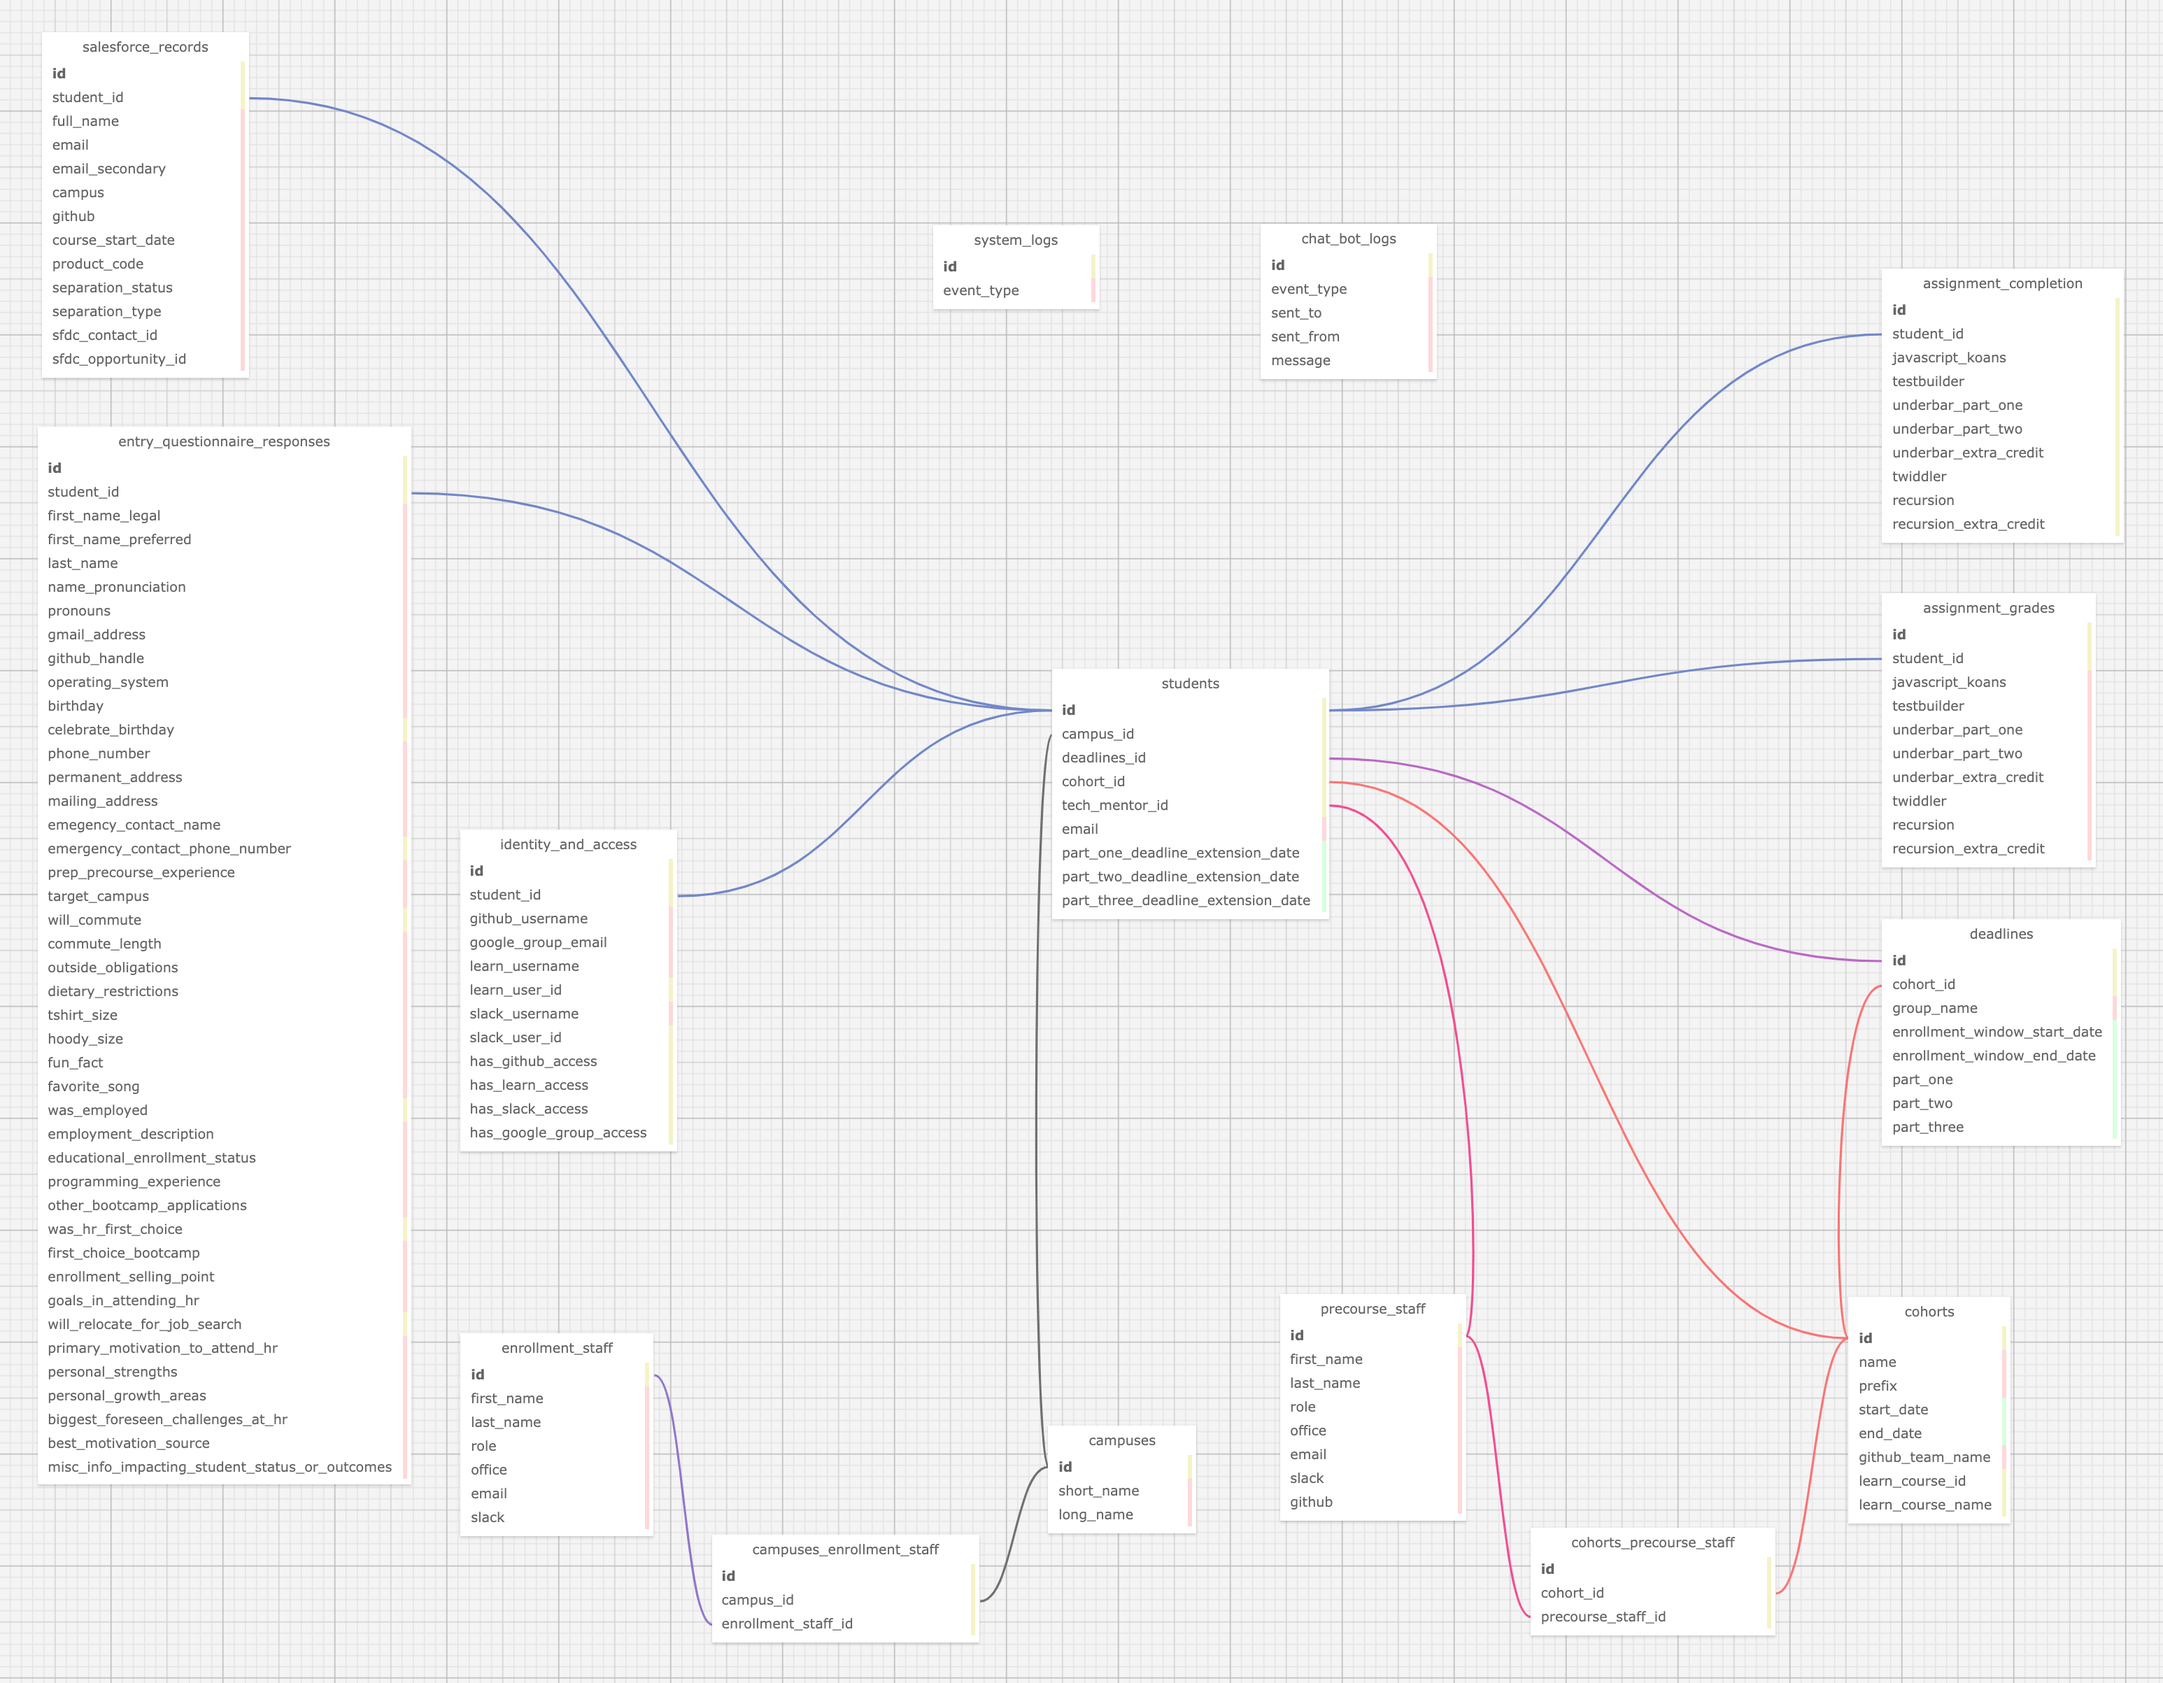
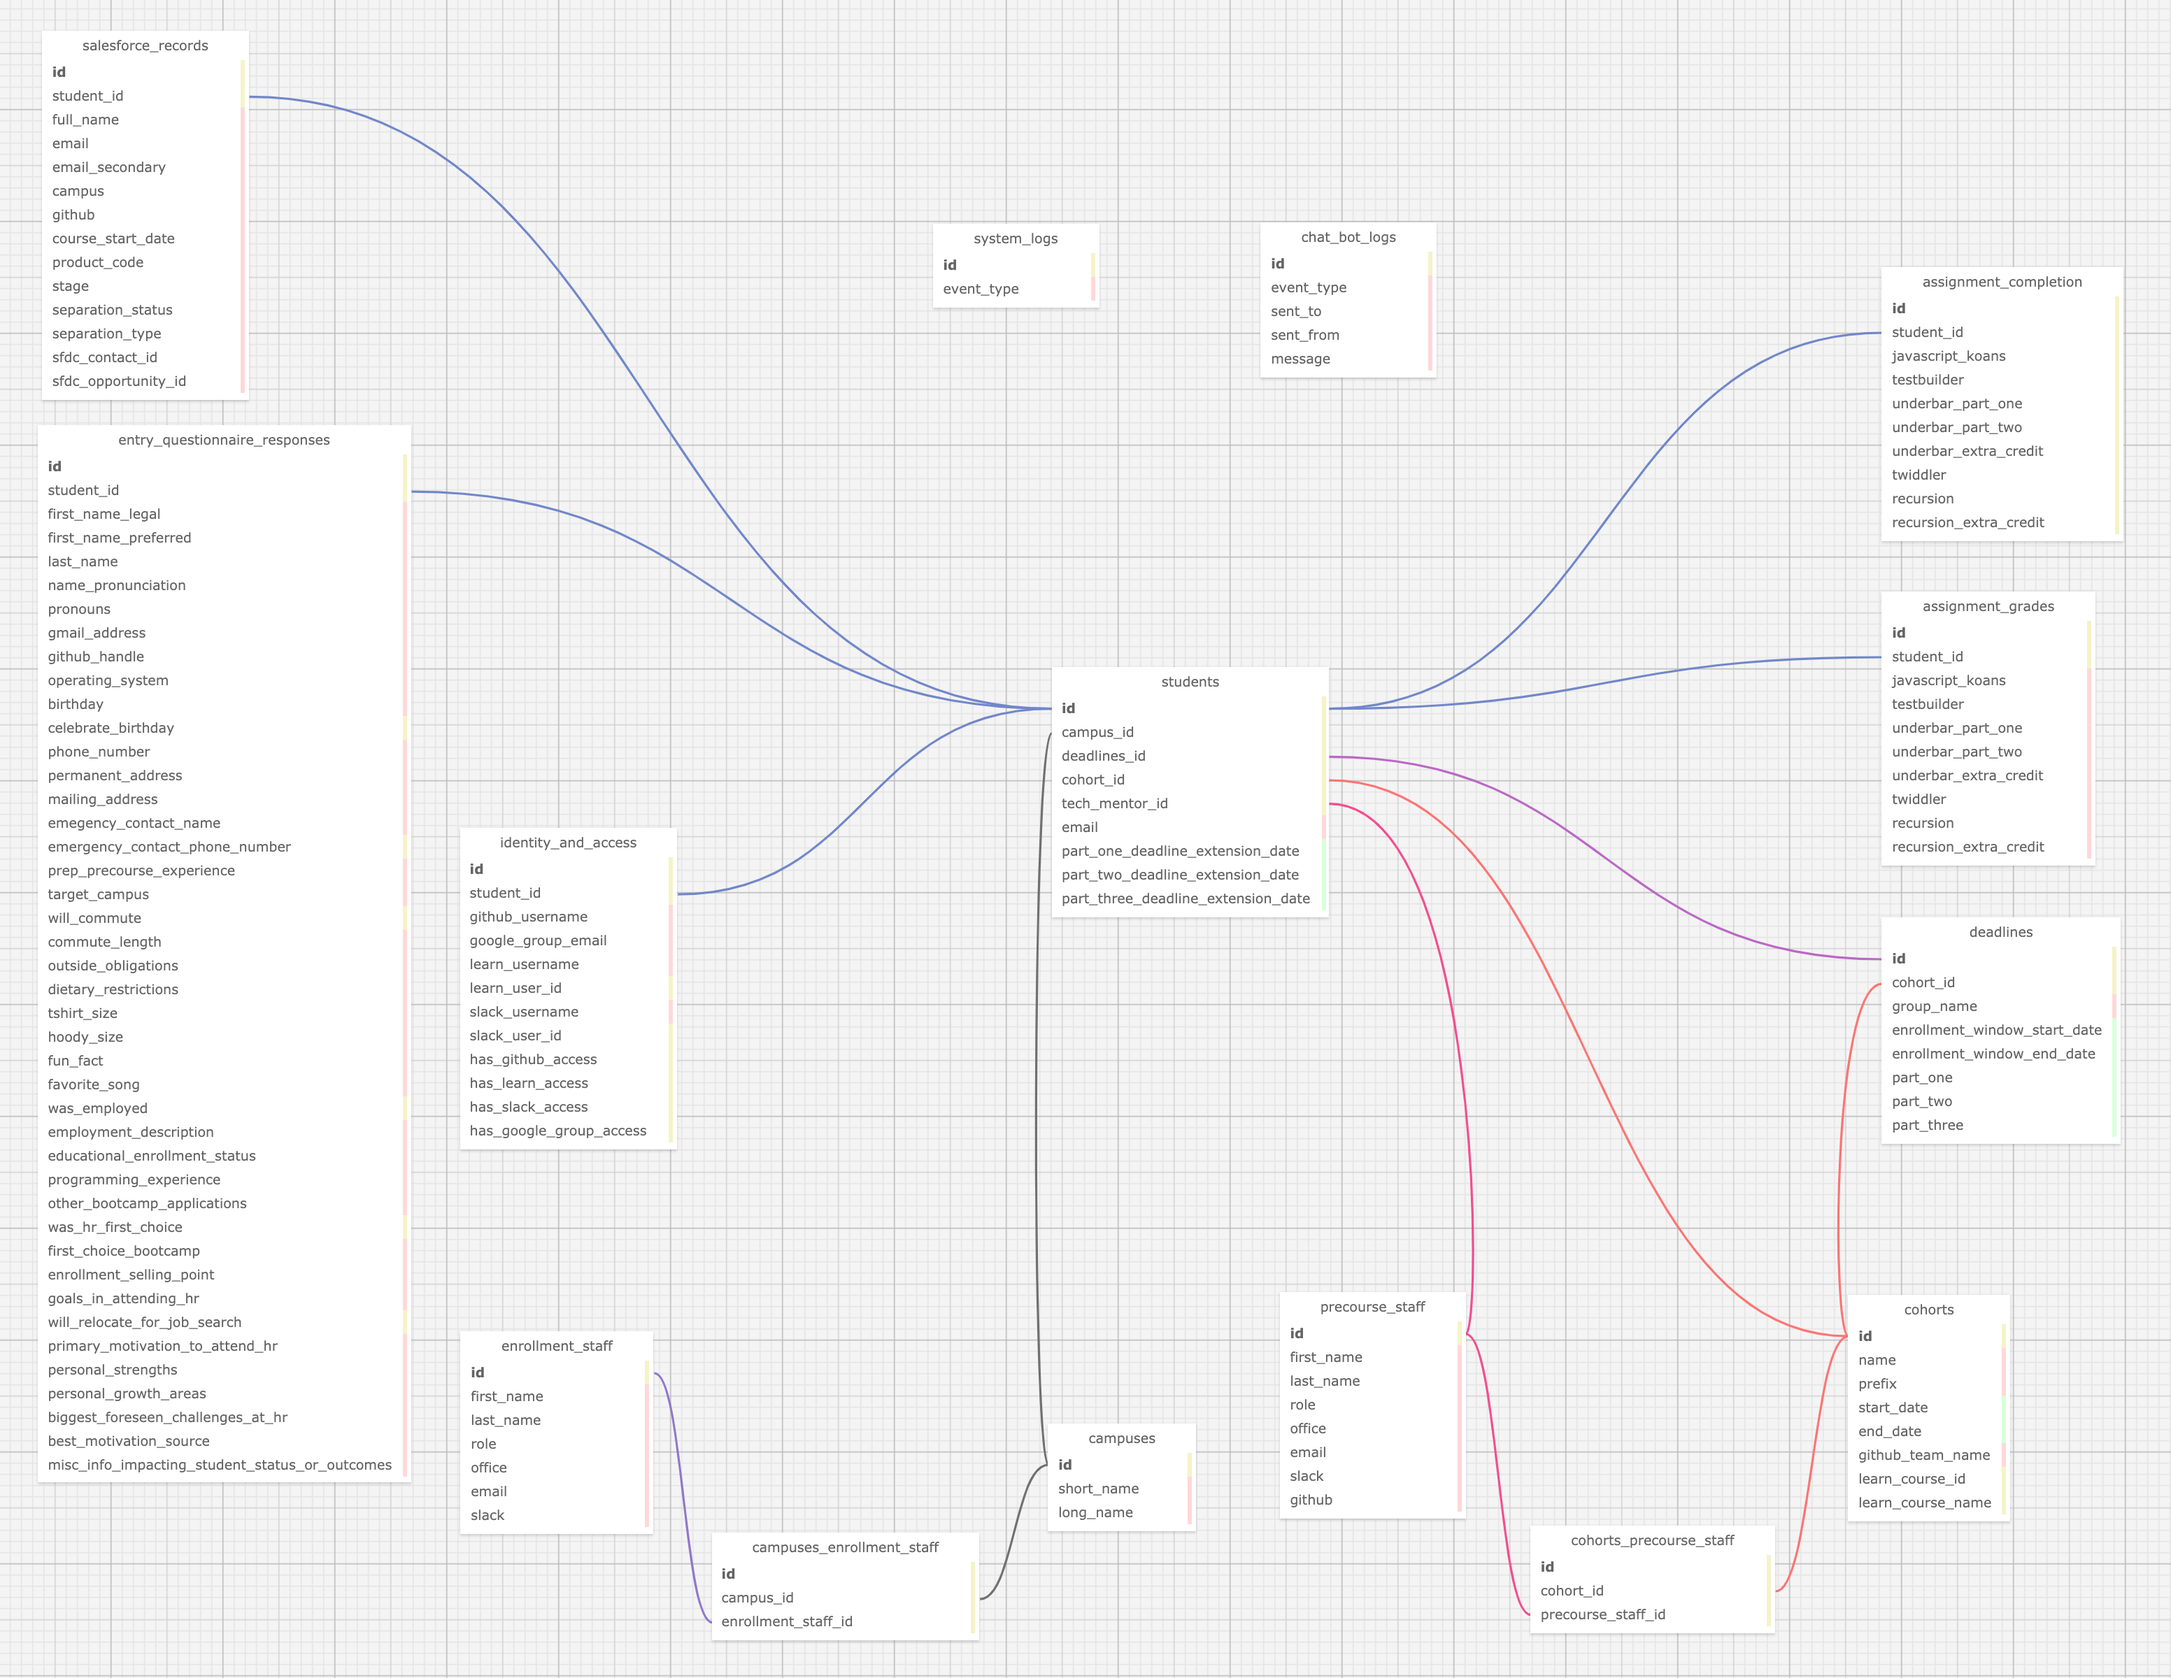
Update SalesforceRecord Model - Add 'stage' column

diff --git a/database/models/SalesforceRecord.js b/database/models/SalesforceRecord.js
@@ -42,6 +42,11 @@ module.exports = (sequelize, DataTypes) => {
       allowNull: false,
       field: 'product_code',
     },
+    stage: {
+      type: DataTypes.STRING(255),
+      allowNull: false,
+      field: 'stage',
+    },
     separationStatus: {
       type: DataTypes.STRING(255),
       allowNull: true,
